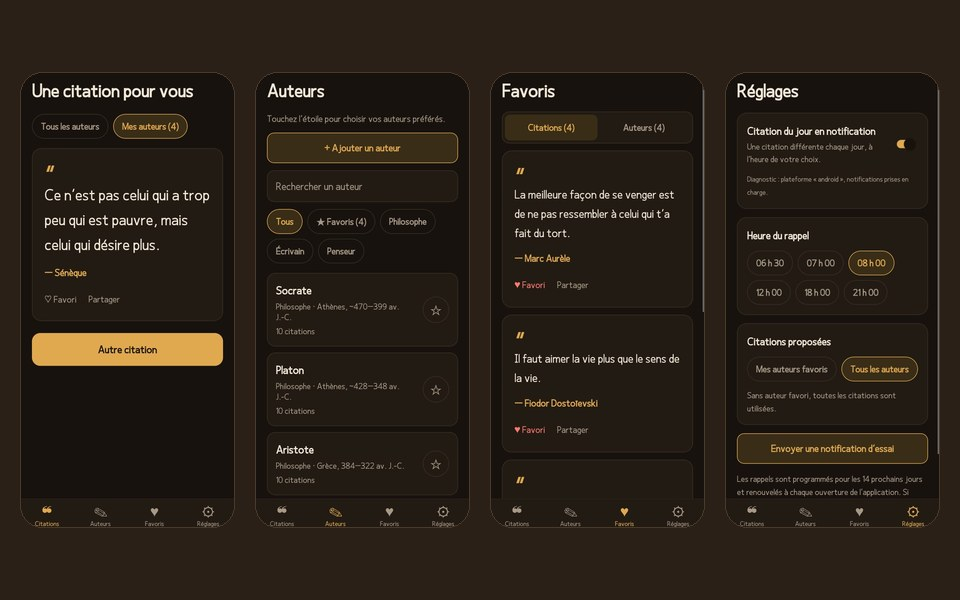
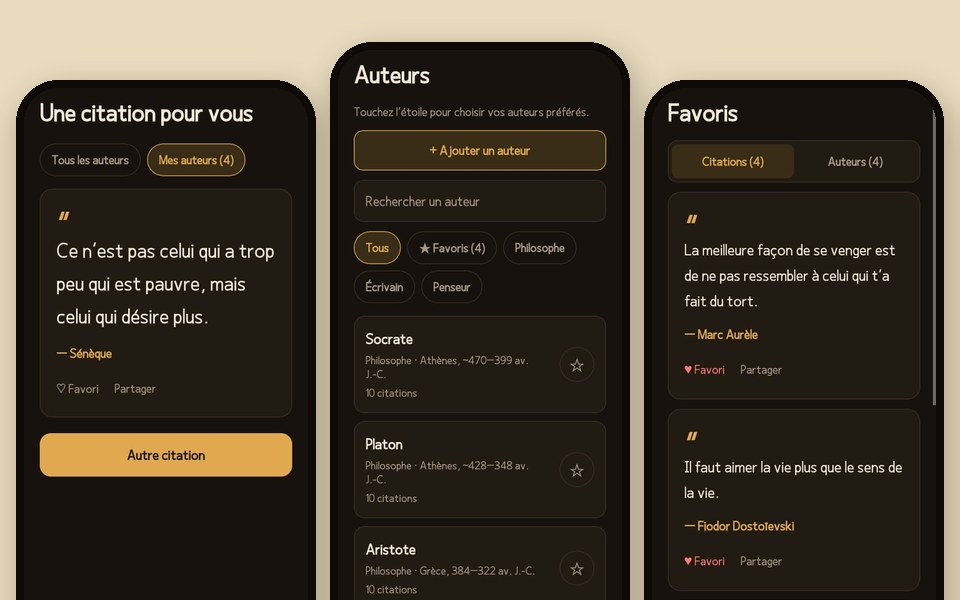
Sagesse : nouvelle image de carte, trois écrans dans des cadres de téléphone sur fond parchemin

diff --git a/index.html b/index.html
@@ -72,7 +72,7 @@
           <figcaption data-fr="ASSIMETO : courses et plats togolais" data-en="ASSIMETO: shopping and Togolese dishes">ASSIMETO : courses et plats togolais</figcaption>
         </figure>
         <figure class="fen">
-          <img src="sagesse.jpg" width="960" height="600" alt="Application Sagesse, quatre écrans : une citation de Sénèque, la liste des auteurs, les citations favorites et les réglages de la notification quotidienne">
+          <img src="sagesse.jpg" width="960" height="600" alt="Application Sagesse, trois écrans : une citation de Sénèque, la liste des auteurs et les citations favorites">
           <figcaption data-fr="Sagesse : la citation du jour" data-en="Sagesse: the quote of the day">Sagesse : la citation du jour</figcaption>
         </figure>
       </div>

diff --git a/produits.html b/produits.html
@@ -102,7 +102,7 @@
       </article>
 
       <article class="carte" data-cat="logiciel">
-        <div class="vignette photo"><img src="sagesse.jpg" width="960" height="600" loading="lazy" alt="Application Sagesse, quatre écrans : une citation de Sénèque, la liste des auteurs, les citations favorites et les réglages de la notification quotidienne"></div>
+        <div class="vignette photo"><img src="sagesse.jpg" width="960" height="600" loading="lazy" alt="Application Sagesse, trois écrans : une citation de Sénèque, la liste des auteurs et les citations favorites"></div>
         <div class="corps">
           <span class="tag" data-fr="Application mobile · Citations" data-en="Mobile app · Quotes">Application mobile · Citations</span>
           <h3>Sagesse</h3>
